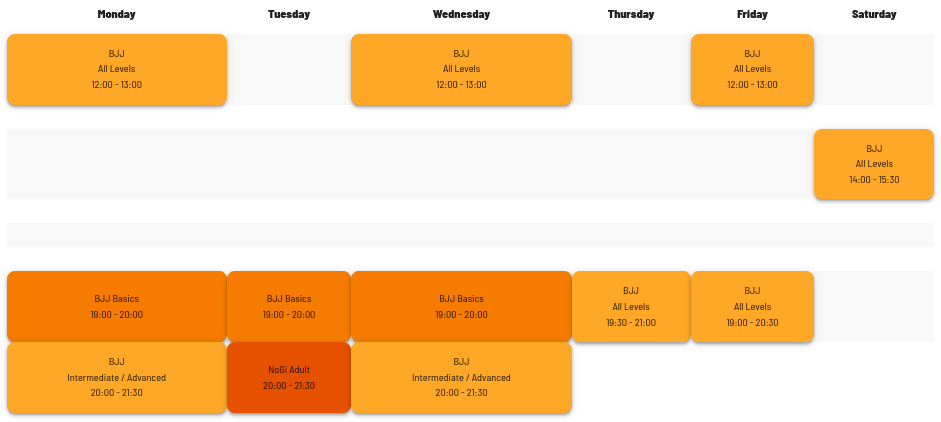
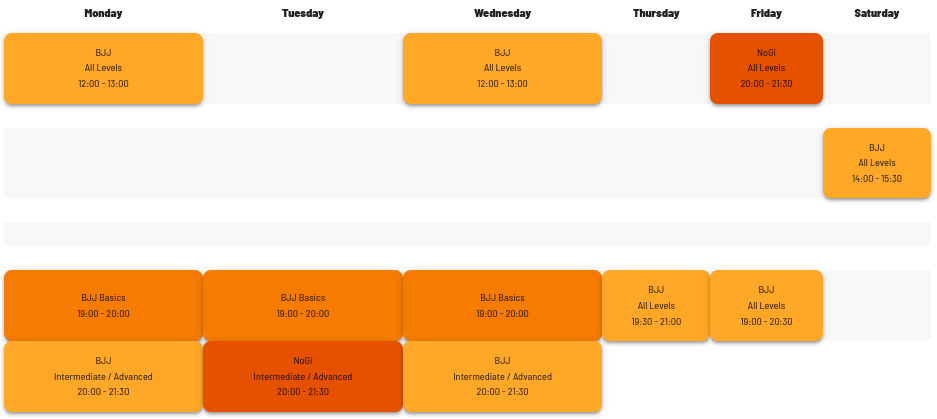
time table update

diff --git a/src/components/layout/AdultsTable.vue b/src/components/layout/AdultsTable.vue
@@ -23,10 +23,10 @@
           <p>12:00 - 13:00</p>
         </td>
         <td></td>
-        <td class="center-align orange lighten-1 z-depth-2">
-          <p>BJJ</p>
+        <td class="center-align orange darken-4 z-depth-2">
+          <p>NoGi</p>
           <p>All Levels</p>
-          <p>12:00 - 13:00</p>
+          <p>20:00 - 21:30</p>
         </td>
         <td></td>
       </tr>
@@ -86,7 +86,8 @@
           <p>20:00 - 21:30</p>
         </td>
         <td class="center-align orange darken-4 z-depth-2">
-          <p>NoGi Adult</p>
+          <p>NoGi</p>
+          <p>Intermediate / Advanced</p>
           <p>20:00 - 21:30</p>
         </td>
         <td class="center-align orange lighten-1 z-depth-2">
